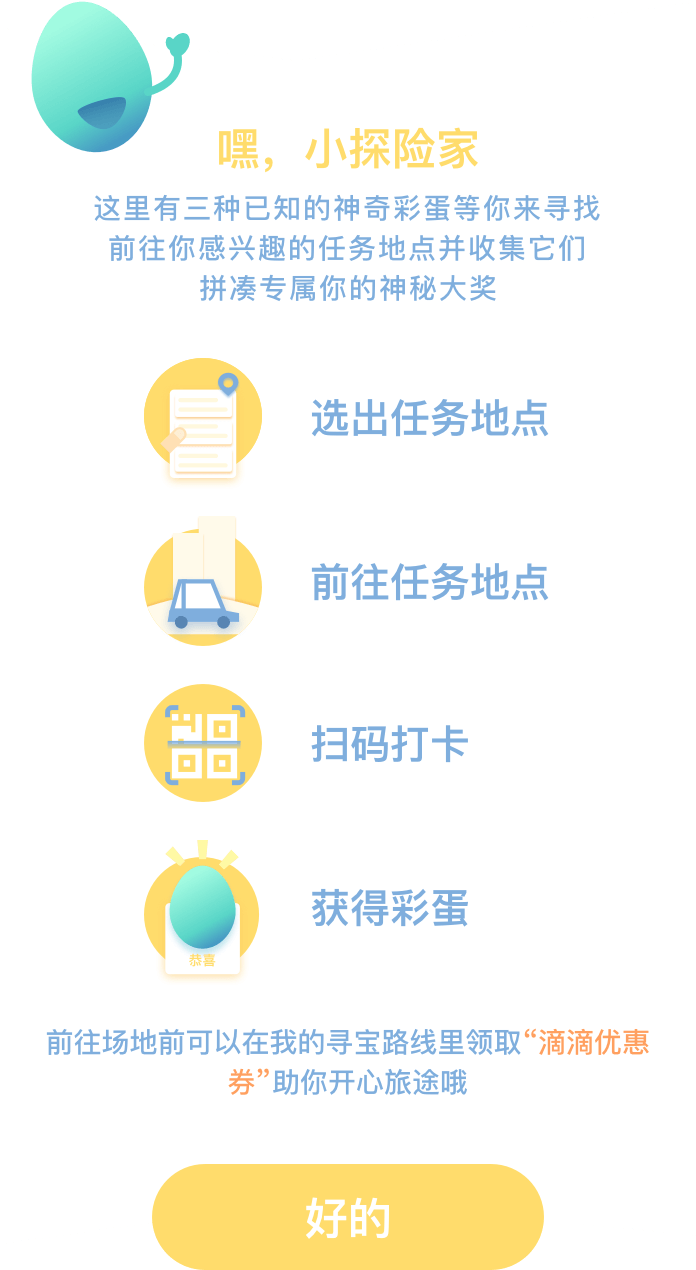
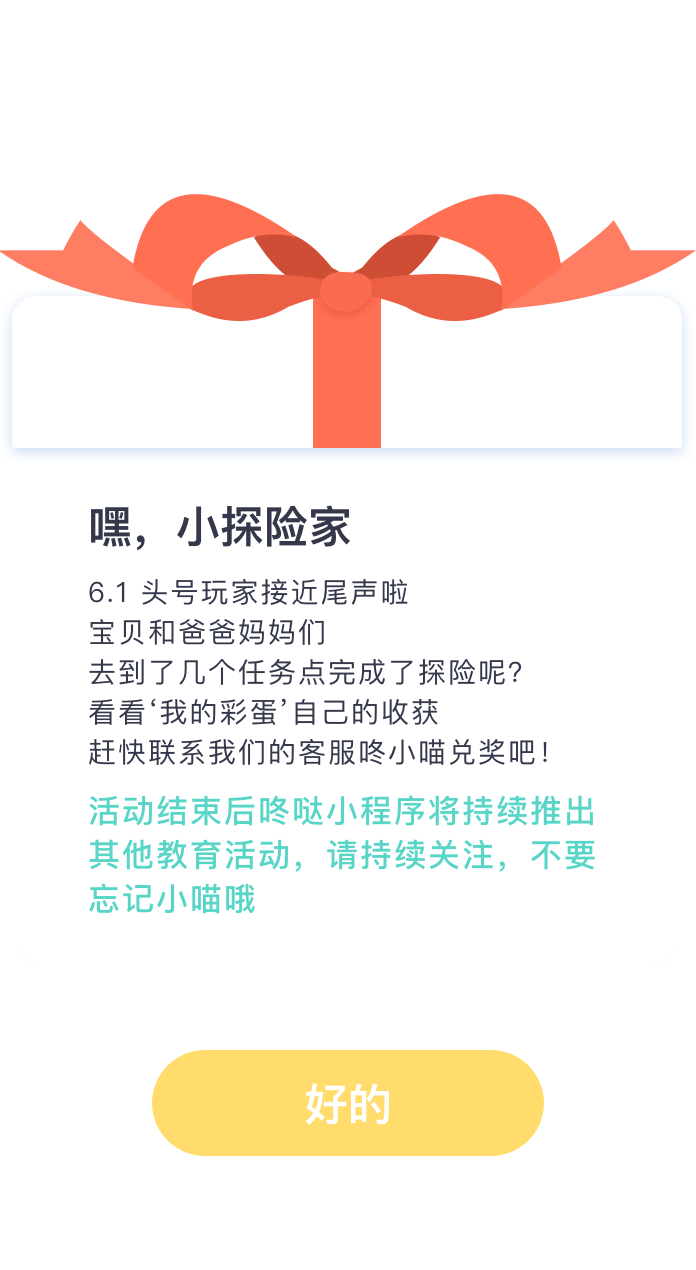
1.1.14版本

diff --git a/pages/exchange/exchange.js b/pages/exchange/exchange.js
@@ -1,0 +1,97 @@
+// exchange.js
+Page({
+
+  /**
+   * 页面的初始数据
+   */
+  data: {
+    android: false,
+    iosX: false,
+    hasScroll: false,
+    deviceHeight: getApp().globalData.deviceHeight,
+  },
+
+  /**
+   * 返回
+   */
+  backBeforePage: function () {
+    wx.navigateBack({
+      delta: 1
+    })
+  },
+
+  /**
+  * scroll-view 监听页面滚动
+  */
+  pageScroll: function (res) {
+    var that = this;
+    if (res.detail.scrollTop > 0) {
+      that.setData({
+        hasScroll: true
+      })
+    } else {
+      that.setData({
+        hasScroll: false
+      })
+    }
+  },
+
+  /**
+   * 生命周期函数--监听页面加载
+   */
+  onLoad: function (options) {
+    this.setData({
+      android: getApp().globalData.android,
+      iosX: getApp().globalData.iosX
+    });
+  },
+
+  /**
+   * 生命周期函数--监听页面初次渲染完成
+   */
+  onReady: function () {
+  
+  },
+
+  /**
+   * 生命周期函数--监听页面显示
+   */
+  onShow: function () {
+  
+  },
+
+  /**
+   * 生命周期函数--监听页面隐藏
+   */
+  onHide: function () {
+  
+  },
+
+  /**
+   * 生命周期函数--监听页面卸载
+   */
+  onUnload: function () {
+  
+  },
+
+  /**
+   * 页面相关事件处理函数--监听用户下拉动作
+   */
+  onPullDownRefresh: function () {
+  
+  },
+
+  /**
+   * 页面上拉触底事件的处理函数
+   */
+  onReachBottom: function () {
+  
+  },
+
+  /**
+   * 用户点击右上角分享
+   */
+  onShareAppMessage: function () {
+  
+  }
+})

diff --git a/pages/score/score.js b/pages/score/score.js
@@ -30,6 +30,15 @@ Page({
     },
 
     /**
+     * 兑换条款
+     */
+    exchange: function () {
+      wx.navigateTo({
+        url: '../exchange/exchange',
+      })
+    },
+
+    /**
      * scroll-view 监听页面滚动
      */
     pageScroll: function (res) {
